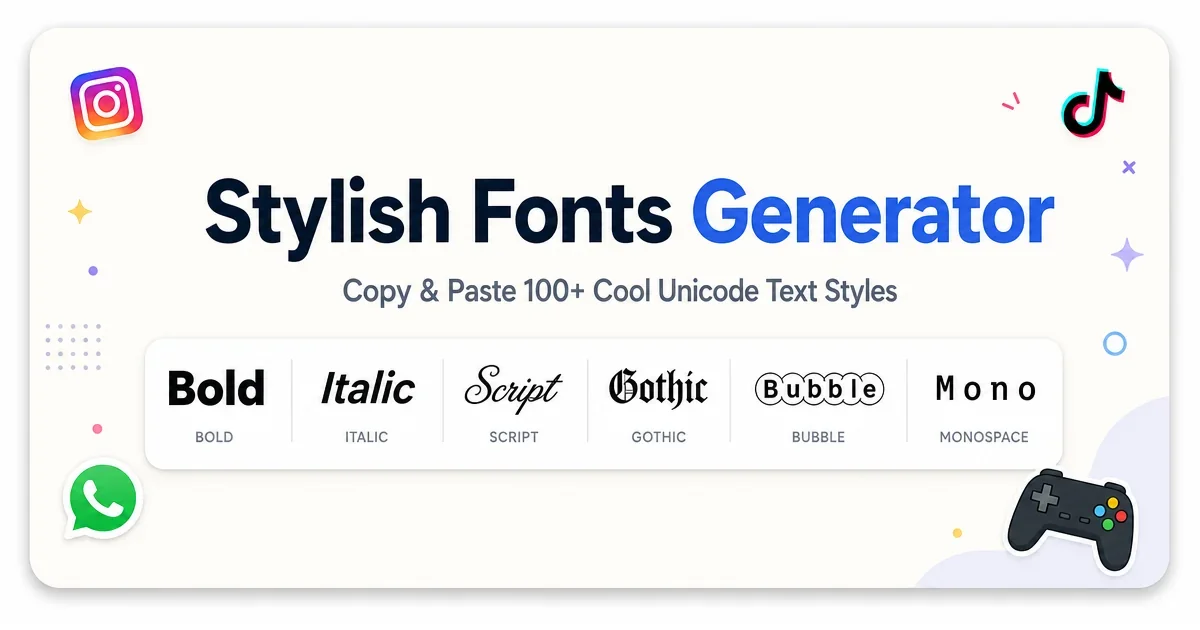
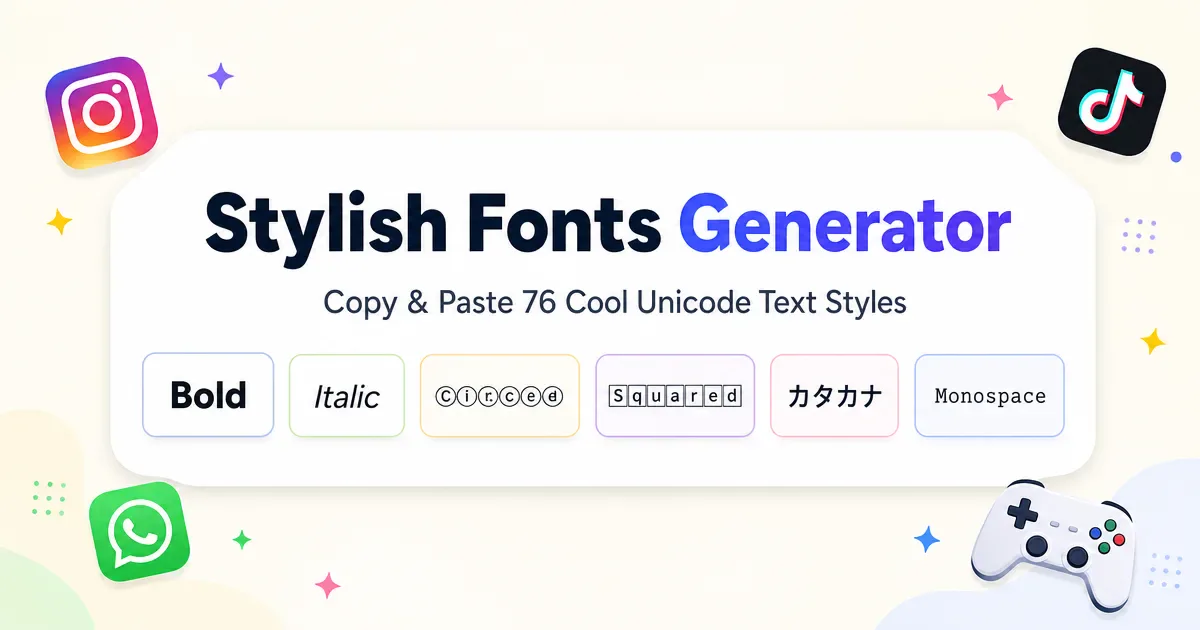
fix: audit feedback — update OG image, alt/caption accuracy, reduce Element Wraps initial render, add image sizes/preload, structured-data dates, and privacy wording

diff --git a/src/app/stylish-fonts/page.tsx b/src/app/stylish-fonts/page.tsx
@@ -27,7 +27,7 @@ const openGraphImages = [
     url: "https://www.aestheticletters.com/images/stylish-fonts/stylish-fonts-og.webp",
     width: 1200,
     height: 630,
-    alt: "Stylish Fonts Generator by Aesthetic Letters showing bold, italic, script, gothic, bubble, and monospace text styles.",
+    alt: "Stylish Fonts Generator by Aesthetic Letters — preview of bold, italic, circled, squared, katakana, and monospace Unicode text styles for social media and gaming.",
   },
   {
     url: "https://www.aestheticletters.com/images/stylish-fonts/stylish-fonts-why-they-dont-always-work.webp",
@@ -57,7 +57,7 @@ const openGraphImages = [
     url: "https://www.aestheticletters.com/images/stylish-fonts/stylish-fonts-why-use-this-generator.webp",
     width: 1200,
     height: 800,
-    alt: "Benefits of the Aesthetic Letters stylish font generator: instant generation, one-click copy, 100+ styles, all devices, no installation, safe and fast.",
+    alt: "Benefits of the Aesthetic Letters stylish font generator: instant generation, one-click copy, 76 styles, all devices, no installation, safe and fast.",
   },
 ];
 
@@ -141,7 +141,7 @@ const fontShowcaseStyles = [
   },
   {
     name: "Element Wraps",
-    description: "Plain and bold text wrapped with emoji and symbol elements.",
+    description: "Plain, bold, circled-negative, and Cyrillic text wrapped with emoji and symbol elements.",
     example: "🧊 Stylish Fonts 🧊",
     bestFor: "Decorated captions and standout profile names.",
   },
@@ -213,7 +213,7 @@ export default function StylishFontsPage() {
       contentUrl: "https://www.aestheticletters.com/images/stylish-fonts/stylish-fonts-og.webp",
       width: 1200,
       height: 630,
-      caption: "Stylish Fonts Generator by Aesthetic Letters showing bold, italic, script, gothic, bubble, and monospace text styles.",
+      caption: "Stylish Fonts Generator by Aesthetic Letters — preview of bold, italic, circled, squared, katakana, and monospace Unicode text styles for social media and gaming.",
       inLanguage: "en",
     },
     {
@@ -263,7 +263,7 @@ export default function StylishFontsPage() {
       contentUrl: "https://www.aestheticletters.com/images/stylish-fonts/stylish-fonts-why-use-this-generator.webp",
       width: 1200,
       height: 800,
-      caption: "Benefits of the Aesthetic Letters stylish font generator.",
+      caption: "Benefits of the Aesthetic Letters stylish font generator: 76 Unicode text styles for Instagram, gaming, and messaging.",
       inLanguage: "en",
     },
   ];
@@ -276,7 +276,7 @@ export default function StylishFontsPage() {
         "@id": "https://www.aestheticletters.com/stylish-fonts#software",
         name: "Stylish Fonts Generator",
         description:
-          "Transform plain text into 100+ unique Unicode stylish font styles instantly. Copy and paste cool text for Instagram, WhatsApp, gaming usernames, and more.",
+          "Transform plain text into 76 unique Unicode stylish font styles instantly. Copy and paste cool text for Instagram, WhatsApp, gaming usernames, and more.",
         operatingSystem: "Any",
         applicationCategory: "UtilitiesApplication",
         browserRequirements: "requires HTML5 support",
@@ -294,6 +294,11 @@ export default function StylishFontsPage() {
         name: "Stylish Fonts Generator - Copy & Paste Cool Text Styles Free",
         description:
           "Stylish Fonts Generator is a free tool to convert normal text into creative styles. Generate, preview, & copy stylish text for social media, gaming, and more.",
+        datePublished: "2026-05-11T08:00:00+00:00",
+        dateModified: "2026-08-04T00:00:00+00:00",
+        image: {
+          "@id": "https://www.aestheticletters.com/stylish-fonts#image-og",
+        },
         breadcrumb: {
           "@id": "https://www.aestheticletters.com/stylish-fonts#breadcrumb",
         },
@@ -487,11 +492,12 @@ export default function StylishFontsPage() {
                 </h2>
                 <Image
                   src="/images/stylish-fonts/stylish-fonts-og.webp"
-                  alt="Stylish Fonts Generator by Aesthetic Letters showing bold, italic, script, gothic, bubble, and monospace text styles."
+                  alt="Stylish Fonts Generator by Aesthetic Letters — preview of bold, italic, circled, squared, katakana, and monospace Unicode text styles for social media and gaming."
                   width={1200}
                   height={630}
+                  sizes="(max-width: 768px) 100vw, 800px"
                   className="w-full h-auto rounded-xl mb-8"
-                  priority={false}
+                  preload={true}
                 />
                 <p className="text-on-surface-variant leading-relaxed text-lg mb-6">
                   A stylish font generator is a simple web-based tool that changes plain text into eye-catching
@@ -521,6 +527,7 @@ export default function StylishFontsPage() {
                   alt="Comparison showing stylish text rendering correctly on a modern phone versus broken empty boxes on an older unsupported device."
                   width={1200}
                   height={800}
+                  sizes="(max-width: 768px) 100vw, 800px"
                   className="w-full h-auto rounded-xl mb-8"
                   loading="lazy"
                 />
@@ -601,6 +608,7 @@ export default function StylishFontsPage() {
                   alt="Social media and messaging mockups showing where stylish fonts work best, including Instagram bios, TikTok captions, WhatsApp status, gaming usernames, and Facebook posts."
                   width={1200}
                   height={800}
+                  sizes="(max-width: 768px) 100vw, 800px"
                   className="w-full h-auto rounded-xl mb-8"
                   loading="lazy"
                 />
@@ -651,17 +659,7 @@ export default function StylishFontsPage() {
                         </span>
                       </p>
                       <p className="text-xs text-on-surface-variant">
-                        {style.name === "Starlight Sparkle" ? (
-                          <>
-                            Best for {style.bestFor.replace(".", "")}. If you love this soft magical vibe, explore{" "}
-                            <Link href="/cute-fonts" className="text-primary underline underline-offset-4 hover:no-underline">
-                              cute fonts
-                            </Link>{" "}
-                            for more styles like this.
-                          </>
-                        ) : (
-                          <>Best for {style.bestFor}</>
-                        )}
+                        Best for {style.bestFor}
                       </p>
                     </div>
                   ))}
@@ -678,6 +676,7 @@ export default function StylishFontsPage() {
                   alt="Diagram explaining that stylish fonts are created by mapping plain text letters to Unicode symbols, enabling copy-paste without installing font files."
                   width={1200}
                   height={800}
+                  sizes="(max-width: 768px) 100vw, 800px"
                   className="w-full h-auto rounded-xl mb-8"
                   loading="lazy"
                 />
@@ -715,6 +714,7 @@ export default function StylishFontsPage() {
                   alt="Do's and don'ts for using stylish fonts: avoid overly complex styles, test before posting, and keep important text readable."
                   width={1200}
                   height={800}
+                  sizes="(max-width: 768px) 100vw, 800px"
                   className="w-full h-auto rounded-xl mb-8"
                   loading="lazy"
                 />
@@ -772,6 +772,7 @@ export default function StylishFontsPage() {
                   alt="Benefits of the Aesthetic Letters stylish font generator: instant generation, one-click copy, 100+ styles, all devices, no installation, safe and fast."
                   width={1200}
                   height={800}
+                  sizes="(max-width: 768px) 100vw, 800px"
                   className="w-full h-auto rounded-xl mb-8"
                   loading="lazy"
                 />

diff --git a/src/app/components/FontCategoryCard.tsx b/src/app/components/FontCategoryCard.tsx
@@ -76,6 +76,8 @@ function FontCategoryCard({
       <div className="space-y-3">
         {transformedStyles.map(({ style, converted, display, styleId }) => {
           const isCopied = copiedId === styleId;
+          const snippet = text.length > 30 ? `${text.slice(0, 30)}...` : text;
+          const copyLabel = isCopied ? "Done — copied" : `Copy "${snippet}" as ${style.name}`;
 
           return (
             <div
@@ -190,7 +192,8 @@ function FontCategoryCard({
                         ? "text-primary hover:bg-primary hover:text-on-primary active:scale-95"
                         : "text-on-surface-variant hover:bg-primary hover:text-on-primary active:scale-95"
                   }`}
-                  aria-label={isCopied ? "Done — copied" : "Copy to clipboard"}
+                  aria-label={copyLabel}
+                  title={copyLabel}
                 >
                   {isCopied ? (
                     <svg width="18" height="18" viewBox="0 0 24 24" fill="none" stroke="currentColor" strokeWidth="2" strokeLinecap="round" strokeLinejoin="round" aria-hidden="true"><polyline points="20 6 9 17 4 12" /></svg>

diff --git a/src/app/stylish-fonts/StylishFontsClient.tsx b/src/app/stylish-fonts/StylishFontsClient.tsx
@@ -246,6 +246,7 @@ export default function StylishFontsClient() {
                 onToggleFavorite={toggleFavorite}
                 onPreview={(t) => setPreviewText(t)}
                 onDownload={(t, name) => setDownloadInfo({ text: t, styleName: name })}
+                initialVisibleStyles={category.name === "Element Wraps" ? 6 : undefined}
               />
             </div>
           ))}

diff --git a/src/app/components/Sidebar.tsx b/src/app/components/Sidebar.tsx
@@ -71,7 +71,7 @@ export default function Sidebar({
         </h3>
         <p className="text-sm text-on-surface-variant leading-relaxed">
           We prioritize your privacy. All transformations happen 100% in your
-          browser. We never store or track the text you type.
+          browser. Your text is never sent to or tracked on our servers.
         </p>
       </div>
 
